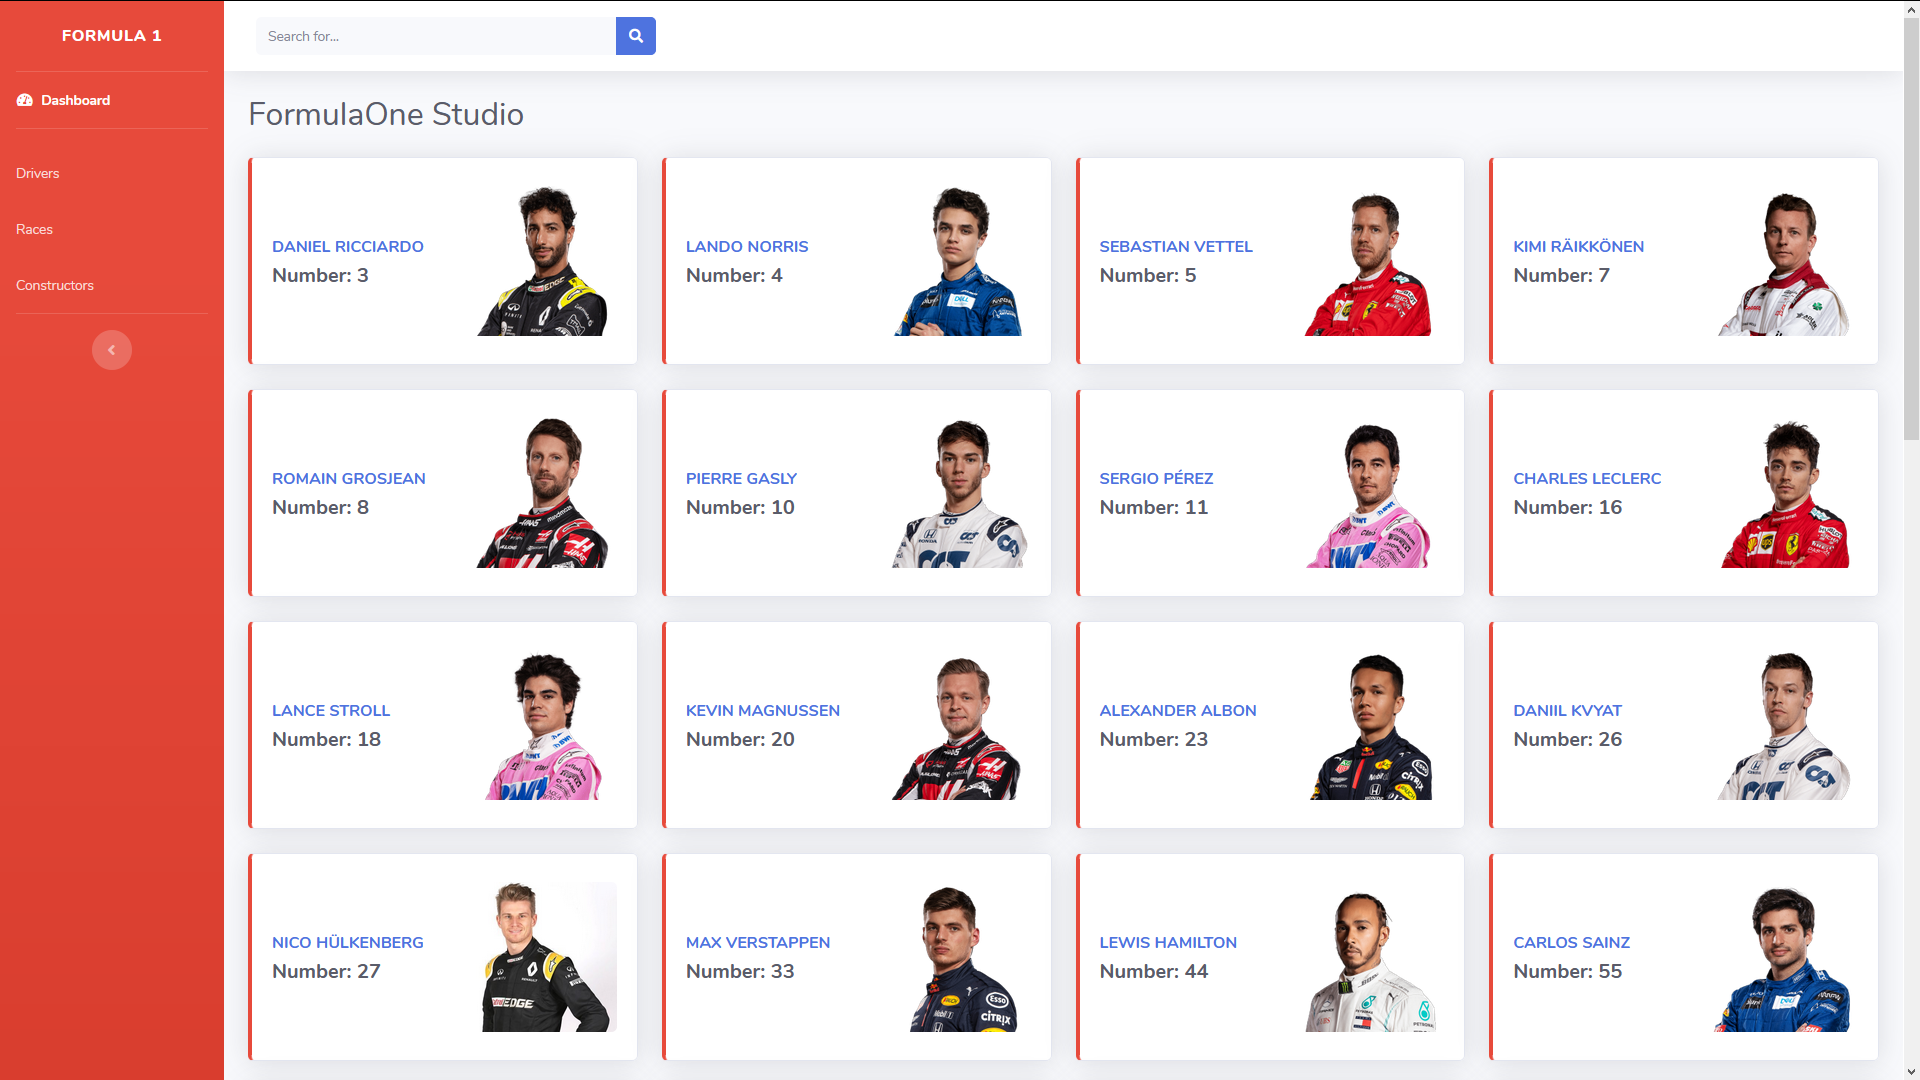
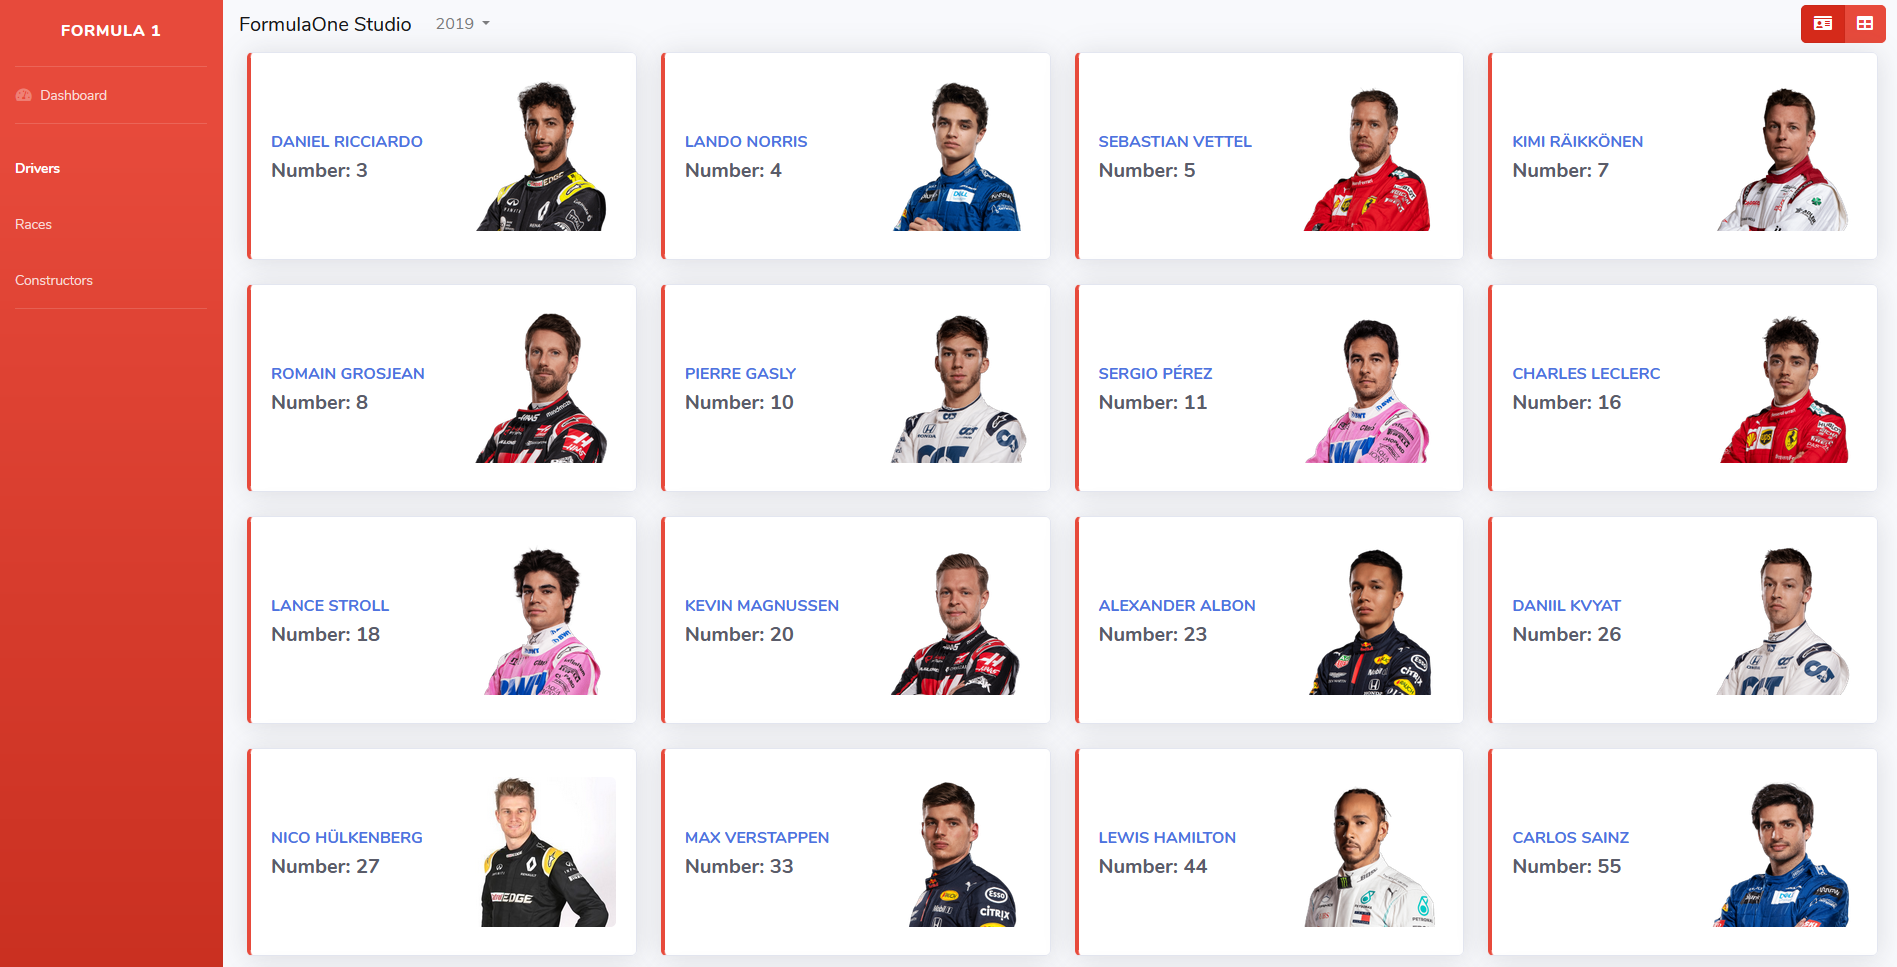
DriverTable web

diff --git a/FormulaOneStudioSolution/FormulaOneAPI/index.html b/FormulaOneStudioSolution/FormulaOneAPI/index.html
@@ -45,7 +45,7 @@
             <hr class="sidebar-divider my-0">
 
             <!-- Nav Item - Dashboard -->
-            <li class="nav-item active">
+            <li class="nav-item">
                 <a class="nav-link" href="index.html">
                     <i class="fas fa-fw fa-tachometer-alt"></i>
                     <span>Dashboard</span>
@@ -60,8 +60,8 @@
               Interface
             </div>
             -->
-            <li class="nav-item">
-                <a class="nav-link" v-on:click="sas">
+            <li class="nav-item active">
+                <a class="nav-link" v-on:click="ShowDrivers">
                     <!-- <i class="fas fa-fw fa-chart-area"></i> -->
                     <span>Drivers</span>
                 </a>
@@ -97,83 +97,110 @@
             <div id="content">
 
                 <!-- Topbar -->
-                <nav class="navbar navbar-expand navbar-light bg-white topbar mb-4 static-top shadow">
-
-                    <!-- Sidebar Toggle (Topbar) -->
-                    <button id="sidebarToggleTop" class="btn btn-link d-md-none rounded-circle mr-3">
-                        <i class="fa fa-bars"></i>
+                <nav class="navbar navbar-expand-lg navbar-light bg-light">
+                    <a class="navbar-brand" href="#">FormulaOne Studio</a>
+                    <button class="navbar-toggler" type="button" data-toggle="collapse" data-target="#navbarSupportedContent" aria-controls="navbarSupportedContent" aria-expanded="false" aria-label="Toggle navigation">
+                        <span class="navbar-toggler-icon"></span>
                     </button>
 
-                    <!-- Topbar Search -->
-                    <form class="d-none d-sm-inline-block form-inline mr-auto ml-md-3 my-2 my-md-0 mw-100 navbar-search">
-                        <div class="input-group">
-                            <input type="text" class="form-control bg-light border-0 small" placeholder="Search for..."
-                                   aria-label="Search" aria-describedby="basic-addon2">
-                            <div class="input-group-append">
-                                <button class="btn btn-danger" type="button">
-                                    <i class="fas fa-search fa-sm"></i>
-                                </button>
+                    <div class="collapse navbar-collapse" id="navbarSupportedContent">
+                        <ul class="navbar-nav mr-auto">
+                            <!--<li class="nav-item active">
+                                <a class="nav-link" href="#">Home <span class="sr-only">(current)</span></a>
+                            </li>-->
+                            <!--<li class="nav-item">
+                                <a class="nav-link" href="#">Link</a>
+                            </li>-->
+                            <li class="nav-item dropdown">
+                                <a class="nav-link dropdown-toggle" href="#" id="selectedYear" role="button" data-toggle="dropdown" aria-haspopup="true" aria-expanded="false">
+                                    2019
+                                </a>
+                                <div class="dropdown-menu" aria-labelledby="navbarDropdown">
+                                    <a class="dropdown-item" href="#">2019</a>
+                                    <a class="dropdown-item" href="#">2018</a>
+                                    <a class="dropdown-item" href="#">2017</a>
+                                    <a class="dropdown-item" href="#">2016</a>
+                                    <a class="dropdown-item" href="#">2015</a>
+                                    <div class="dropdown-divider"></div>
+                                    <a class="dropdown-item" href="#">All</a>
+                                </div>
+                            </li>
+                            <!--<li class="nav-item">
+                                <a class="nav-link disabled" href="#">Disabled</a>
+                            </li>-->
+                        </ul>
+                        <form class="form-inline my-2 my-lg-0">
+                            <!--<a href="#" class="btn btn-danger btn-icon-split">
+                                <span class="icon" onclick="alert(1)">
+                                    <i class="fas fa-id-card"></i>
+                                </span>
+                                <span class="icon text-white-50">
+                                    <i class="fas fa-table"></i>
+                                </span>
+                            </a>-->
+
+                            <div class="btn-group btn-group-toggle" data-toggle="buttons">
+                                <label class="btn btn-danger active" onclick="visualizza(0)">
+                                    <input type="radio" name="options" id="option2" autocomplete="off">
+                                    <span class="icon">
+                                        <i class="fas fa-id-card"></i>
+                                    </span>
+                                </label>
+                                <label class="btn btn-danger" onclick="visualizza(1)">
+                                    <input type="radio" name="options" id="option1" autocomplete="off" checked>
+                                    <span class="icon">
+                                        <i class="fas fa-table"></i>
+                                    </span>
+                                </label>
                             </div>
-                        </div>
-                    </form>
-
-                    <!-- Topbar Navbar -->
-                    <ul class="navbar-nav ml-auto">
-
-                        <!-- Nav Item - Search Dropdown (Visible Only XS) -->
-                        <li class="nav-item dropdown no-arrow d-sm-none">
-                            <a class="nav-link dropdown-toggle" href="#" id="searchDropdown" role="button"
-                               data-toggle="dropdown" aria-haspopup="true" aria-expanded="false">
-                                <i class="fas fa-search fa-fw"></i>
-                            </a>
-                            <!-- Dropdown - Messages -->
-                            <div class="dropdown-menu dropdown-menu-right p-3 shadow animated--grow-in"
-                                 aria-labelledby="searchDropdown">
-                                <form class="form-inline mr-auto w-100 navbar-search">
-                                    <div class="input-group">
-                                        <input type="text" class="form-control bg-light border-0 small"
-                                               placeholder="Search for..." aria-label="Search"
-                                               aria-describedby="basic-addon2">
-                                        <div class="input-group-append">
-                                            <button class="btn btn-primary" type="button">
-                                                <i class="fas fa-search fa-sm"></i>
-                                            </button>
-                                        </div>
-                                    </div>
-                                </form>
-                            </div>
-                        </li>
-
-                        <!-- Nav Item - Alerts -->
-                        <!-- Nav Item - Messages -->
-                        <!-- <div class="topbar-divider d-none d-sm-block"></div> -->
-                        <!-- Nav Item - User Information -->
-
-                    </ul>
-
+                        </form>
+                    </div>
                 </nav>
                 <!-- End of Topbar -->
                 <!-- Begin Page Content -->
                 <div class="container-fluid" id="drivers">
 
-                    <div class="d-flex flex-row  justify-content-between  align-items-center mb-4">
-                         <h1 class="h2 mb-0 text-gray-800" id="title">FormulaOne Studio</h1>
-                        <div class="dropdown mb-4">
-                            <button class="btn btn-danger dropdown-toggle" type="button" id="selectedYear" data-toggle="dropdown" aria-haspopup="true" aria-expanded="false">
-                                2019
-                            </button>
-                            <div id="drop" class="dropdown-menu" aria-labelledby="dropdownMenuButton">
-                                <a class="dropdown-item" href="#">2019</a>
-                                <a class="dropdown-item" href="#">2018</a>
-                                <a class="dropdown-item" href="#">2017</a>
-                                <a class="dropdown-item" href="#">2016</a>
-                                <a class="dropdown-item" href="#">2015</a>
-                                <a class="dropdown-item" href="#">All</a>
+                    <div id="tableDrivers" class="card shadow mb-4" style="display:none">
+                        <div class="card-header py-3">
+                            <h6 class="m-0 font-weight-bold text-primary">Drivers table</h6>
+                        </div>
+                        <div class="card-body">
+                            <div class="table">
+                                <table class="table table-bordered" id="dataTable" width="100%" cellspacing="0">
+                                    <thead>
+                                        <tr>
+                                            <th>Name</th>
+                                            <th>Number</th>
+                                        </tr>
+                                    </thead>
+                                    <tbody>
+                                        <tr v-for="(item,index) in drivers">
+                                            <td>{{ item.forename }} {{ item.surname }}</td>
+                                            <td> {{ item.number }}</td>
+                                        </tr>
+                                    </tbody>
+                                </table>
                             </div>
                         </div>
                     </div>
+                    <!--<div class="d-flex flex-row  justify-content-between  align-items-center mb-4">
+         <h1 class="h2 mb-0 text-gray-800" id="title">FormulaOne Studio</h1>
+        <div class="dropdown mb-4">
+            <button class="btn btn-danger dropdown-toggle" type="button" id="selectedYear" data-toggle="dropdown" aria-haspopup="true" aria-expanded="false">
+                2019
+            </button>
+            <div id="drop" class="dropdown-menu" aria-labelledby="dropdownMenuButton">
+                <a class="dropdown-item" href="#">2019</a>
+                <a class="dropdown-item" href="#">2018</a>
+                <a class="dropdown-item" href="#">2017</a>
+                <a class="dropdown-item" href="#">2016</a>
+                <a class="dropdown-item" href="#">2015</a>
+                <a class="dropdown-item" href="#">All</a>
+            </div>
+        </div>
+    </div>-->
                     <!-- Content Row -->
-                    <div class="row">
+                    <div class="row" id="cardDrivers">
 
                         <!-- Earnings (Monthly) Card Example -->
                         <div class="col-xl-3 col-md-6 mb-4" v-for="(item,index) in drivers">
@@ -187,8 +214,6 @@
                                             <div class="h5 mb-0 font-weight-bold text-gray-800">Number: {{ item.number }}</div>
                                         </div>
                                         <div class="col-auto">
-                                            <!--<img class="img-fluid rounded" style="width:150px"
-                                            src="https://www.shareicon.net/data/512x512/2016/04/10/747353_people_512x512.png">-->
                                             <img class="img-fluid rounded" style="width:150px" v-if="item.PathImgSmall!=''" v-bind:src="item.PathImgSmall">
                                             <img class="img-fluid rounded" style="width:150px" v-else="item.PathImgSmall==''" src="https://www.shareicon.net/data/512x512/2016/04/10/747353_people_512x512.png">
                                         </div>
@@ -199,6 +224,7 @@
 
                     </div>
                 </div>
+                       
 
                 <!-- Content Row -->
                 <!-- /.container-fluid -->
@@ -256,11 +282,13 @@
     <script src="F1_website/js/sb-admin-2.min.js"></script>
 
     <!-- Page level plugins -->
-    <script src="F1_website/vendor/chart.js/Chart.min.js"></script>
+    <!--<script src="F1_website/vendor/chart.js/Chart.min.js"></script>-->
+    <script src="F1_website/vendor/datatables/jquery.dataTables.min.js"></script>
+    <script src="F1_website/vendor/datatables/dataTables.bootstrap4.min.js"></script>
 
     <!-- Page level custom scripts -->
-    <script src="F1_website/js/demo/chart-area-demo.js"></script>
-    <script src="F1_website/js/demo/chart-pie-demo.js"></script>
+    <!--<script src="F1_website/js/demo/chart-area-demo.js"></script>
+    <script src="F1_website/js/demo/chart-pie-demo.js"></script>-->
 
 </body>
 

diff --git a/FormulaOneStudioSolution/FormulaOneAPI/F1_website/js/index.js b/FormulaOneStudioSolution/FormulaOneAPI/F1_website/js/index.js
@@ -1,5 +1,7 @@
 "use strict"
 
+var table, card;
+
 $(document).ready(function () {
 
     var app = new Vue({
@@ -7,25 +9,44 @@ $(document).ready(function () {
         data: function () {
             return {
                 drivers: [],
+                driversTable: [],
             }
         },
         methods: {
-            sas: function () {
+            ShowDrivers: function () {
                 if ($('#selectedYear').text() == 'All')
                     $('#selectedYear').text('');
-                var uri = 'api/' + $('#selectedYear').text()+'/drivers/';
+                var uri = 'api/' + $('#selectedYear').text() + '/drivers/';
                 var myData;
                 $.getJSON(uri)
                     .done((data) => {
                         //console.log("Drivers", myData)
                         this.drivers = data;
-                        console.log(this.drivers)
+                        //console.log(this.drivers)
                     });
             }
         },
     });
 
+    app.ShowDrivers();
+
+    table = $("#tableDrivers");
+    card = $("#cardDrivers");
+
     $('.dropdown-menu a').click(function () {
         $('#selectedYear').text($(this).text());
     });
+
+    //$('#dataTable').DataTable();
 });
+
+function visualizza(n) {
+    if (n == 0) {
+        table.hide();
+        card.show();
+    }
+    else if (n == 1) {
+        table.show();
+        card.hide();
+    }
+}

diff --git a/README.md b/README.md
@@ -9,6 +9,10 @@ The Software is written mainly in **C# WPF Project**, with the addition of some 
   <img src="https://github.com/vallauri-ict/formula-1-Mihai-Canea/blob/master/Assets/image/FormulaOneASP.png" width="100%">
 </p>
 
+<p align="center">
+  <img src="https://github.com/vallauri-ict/formula-1-Mihai-Canea/blob/master/Assets/image/FormulaOneASP_table.png" width="100%">
+</p>
+
 ### FormulaOne WPF
 <p align="center">
   <img src="https://github.com/vallauri-ict/formula-1-Mihai-Canea/blob/master/Assets/image/FormulaOneWPF.png" width="100%">
